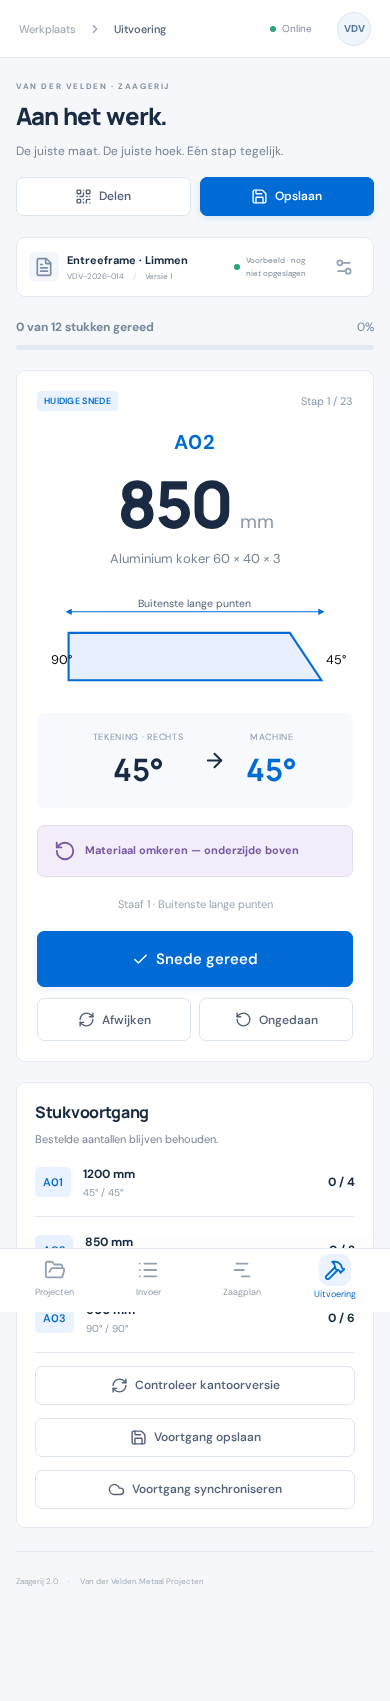
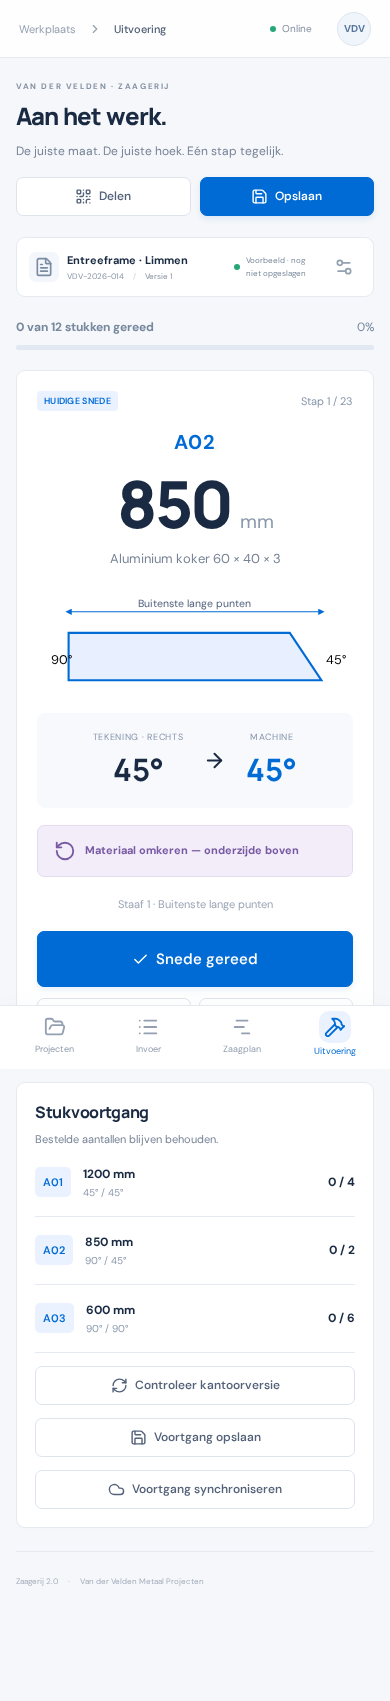
Verify projected kerf boundaries and prepare secure deployment setup

diff --git a/src/engine.js b/src/engine.js
@@ -109,12 +109,7 @@ export function plan(doc) {
         piece.long +
         +profile.kerf / Math.sin((+piece.left * Math.PI) / 180) +
         +profile.kerf / Math.sin((+piece.right * Math.PI) / 180);
-      let fits = bins.filter(
-        (b) =>
-          b.capacity - b.used >=
-          required +
-            (!b.items.length && b.endAngle !== +piece.left ? +profile.kerf : 0),
-      );
+      let fits = bins.filter((b) => b.capacity - b.used >= required);
       fits.sort(
         (a, b) =>
           (doc.useRemnants
@@ -142,8 +137,7 @@ export function plan(doc) {
         };
         bins.push(bar);
       }
-      const trim =
-        !bar.items.length && bar.endAngle !== +piece.left ? +profile.kerf : 0;
+      const trim = 0; // Both independent saw cuts are already included in required.
       bar.used += required + trim;
       bar.items.push({ ...piece, required, trim });
     }

diff --git a/tests/api.test.js b/tests/api.test.js
@@ -1,0 +1,24 @@
+import { test } from "node:test";
+import assert from "node:assert/strict";
+import { onRequestPost } from "../functions/api/recognize.js";
+test("recognition refuses different origin", async () => {
+  const r = await onRequestPost({
+    request: new Request("https://zaagerij.test/api/recognize", {
+      method: "POST",
+      headers: { Origin: "https://other.test" },
+    }),
+    env: {},
+  });
+  assert.equal(r.status, 403);
+});
+test("recognition does not pretend to work without configured credentials", async () => {
+  const r = await onRequestPost({
+    request: new Request("https://zaagerij.test/api/recognize", {
+      method: "POST",
+      headers: { Origin: "https://zaagerij.test" },
+    }),
+    env: {},
+  });
+  assert.equal(r.status, 503);
+  assert.match((await r.json()).error, /niet ingesteld/);
+});

diff --git a/tests/engine.test.js b/tests/engine.test.js
@@ -99,7 +99,7 @@ test("usable remnants have priority and measured angle trim is included", () => 
   d.useRemnants = true;
   const p = plan(d);
   assert.equal(p.bars[0].source, "rest");
-  assert.equal(p.bars[0].used, 2415);
+  assert.equal(p.bars[0].used, 2412);
   assert.equal(p.check.ok, true);
 });
 
@@ -114,4 +114,13 @@ test("time scheduling respects physical order within each bar", () => {
       b.items.flatMap((x) => [x.unit + ":links", x.unit + ":rechts"]),
     );
   }
+});
+
+test("angled blank near stock capacity is rejected without overflow", () => {
+  const d = base();
+  d.pieces[0] = { ...d.pieces[0], length: 5993, qty: 1, left: 45, right: 45 };
+  const p = plan(d);
+  assert.equal(p.bars.length, 0);
+  assert.equal(p.unplaced.length, 1);
+  assert.equal(p.check.ok, true);
 });
